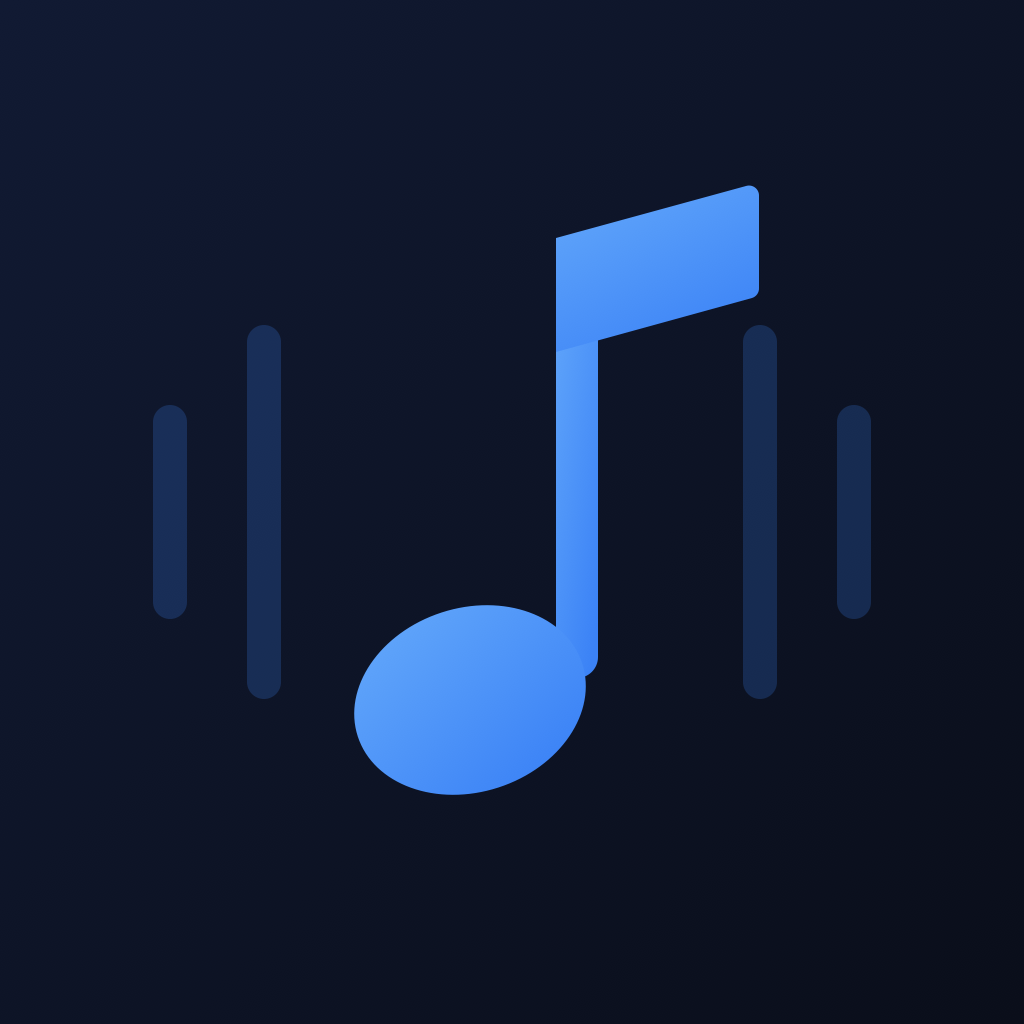
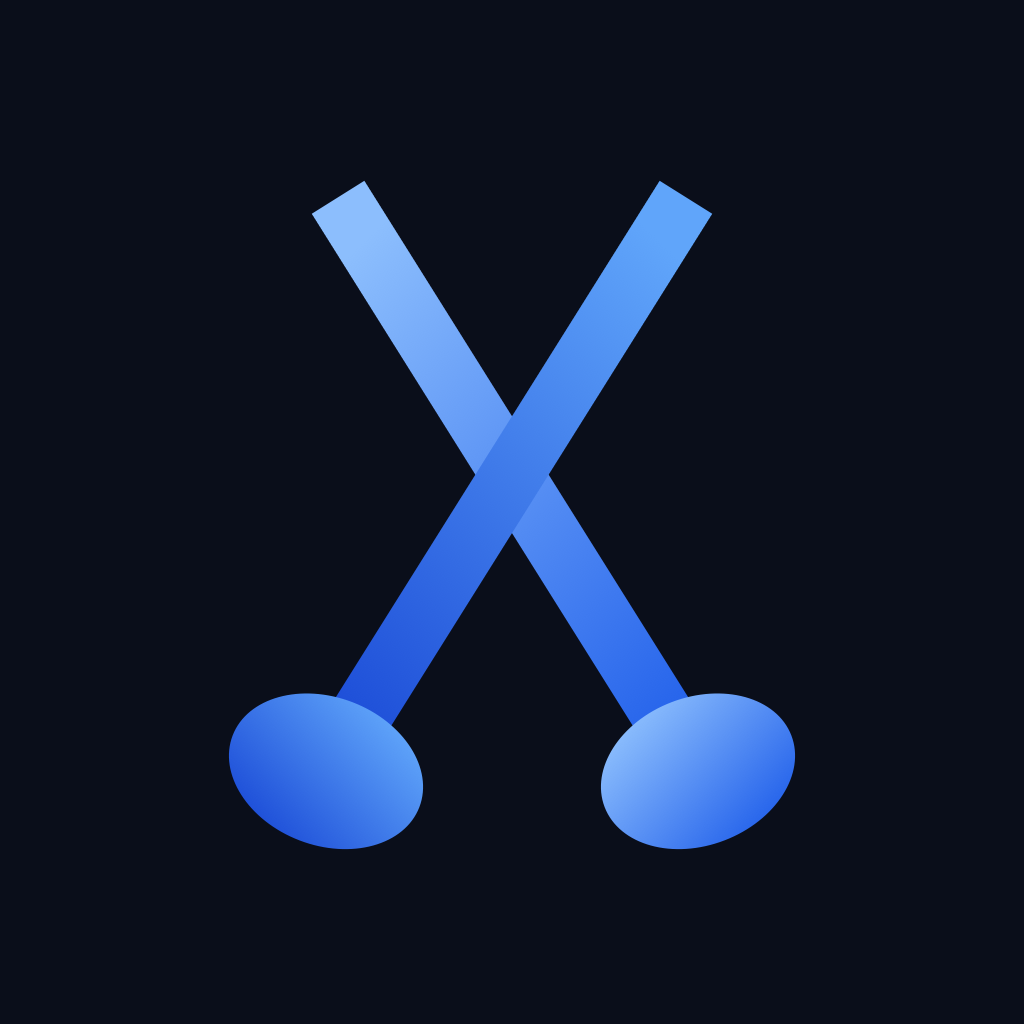
feat: marca do app — X de duas seminimas cruzadas
Substitui o icone anterior, que era um rascunho meu de uma nota musical
solta. A nova marca e o pedido: a letra X construida com notas.

Duas seminimas espelhadas, hastes se cruzando. O X aparece na estrutura,
nao e desenhado por cima dela — quem nao repara na musica ve um X, quem
repara ve duas notas.

**Sem bandeira de colcheia, por teste e nao por gosto.** Foram feitas
tres variantes — bandeira larga, bandeira curta e sem bandeira — e
comparadas a 88px, que e o tamanho em que um icone e realmente visto. Nas
duas primeiras a bandeira virava um risco solto que competia com o
cruzamento e enfraquecia a leitura do X. Sem ela, a diagonal sobrevive
inteira.

A geometria e calculada, nao estimada: as pontas das hastes sao cortadas
perpendicularmente ao proprio eixo (nao na horizontal), o espelhamento e
exato em x=512 e a marca inteira sobe 9,3px para o centro optico, ja que
a massa desce ate a base das cabecas. As cabecas ficam inclinadas a 21
graus, que e a inclinacao da notacao manuscrita — uma elipse deitada, nao
um circulo preso a uma linha.

Cores do proprio app: gradiente de #8CBEFD a #2563EB, na diagonal da
leitura de uma partitura.

Em `store/logo/`: a marca, a versao com fundo para o icone, uma
monocromatica e a filosofia de design que guiou as escolhas.

A skill `canvas-design` foi instalada a pedido e entra no `.gitignore` —
sao 7MB de fontes que nao pertencem ao repositorio do app; o comando de
reinstalacao fica anotado la.
[…]

diff --git a/store/logo/FILOSOFIA.md b/store/logo/FILOSOFIA.md
@@ -1,0 +1,58 @@
+# Notação Cruzada
+
+> Filosofia de design para a marca do Connext Music.
+
+## O movimento
+
+**Notação Cruzada** parte de uma observação simples: a escrita musical é o sistema de símbolos mais
+preciso que a humanidade inventou para registrar algo que não se pode ver. Uma haste, uma cabeça
+oval inclinada, uma bandeira — três traços que dizem exatamente qual som, por quanto tempo, em que
+altura. Nenhum deles ilustra o som; todos o *descrevem*. Este movimento trata esses traços como
+material de construção, não como enfeite.
+
+A disciplina central é a **economia do traço**. Cada linha tem que carregar duas leituras ao mesmo
+tempo, e nenhuma das duas pode ser um sacrifício da outra. Um traço que só funciona quando explicado
+falhou. A forma deve ser reconhecida antes de ser compreendida — primeiro o olho a identifica, só
+depois a mente percebe do que ela é feita.
+
+## Espaço e forma
+
+O movimento rejeita a moldura. Nada de círculos contendo símbolos, nada de escudos, nada de
+recipientes. A forma se sustenta pela própria estrutura ou não se sustenta. O espaço negativo é
+tratado com o mesmo rigor do positivo: o vazio entre duas hastes que se cruzam é uma forma tanto
+quanto as hastes, e precisa ser tão intencional quanto elas.
+
+A inclinação vem da notação real. A cabeça de uma nota manuscrita nunca é um círculo perfeito — ela
+é uma elipse deitada, inclinada por volta de vinte graus, porque foi assim que a pena a desenhou por
+séculos. Preservar essa inclinação é o que separa um símbolo musical de um ponto qualquer preso a
+uma linha.
+
+## Cor
+
+A paleta é fechada e não negociável: um azul que avança e um fundo que recua. O azul não é
+decoração, é o único elemento que ocupa a atenção; o fundo quase preto existe para que ele possa
+brilhar sem competir. Um gradiente sutil, do claro ao saturado, sugere movimento na diagonal — a
+mesma direção da leitura de uma partitura, da esquerda para a direita, do grave ao agudo.
+
+Nenhuma terceira cor entra. Nenhuma sombra suaviza. Nenhum brilho especular finge volume. A
+superfície é chapada porque a notação sempre foi chapada: tinta sobre papel, sem pretensão de
+tridimensionalidade.
+
+## Escala
+
+A prova final do movimento é a **redução**. Uma forma que só funciona grande é ilustração, não
+marca. O teste não é como ela se comporta a mil pixels — é o que sobra dela a quarenta. Nessa
+escala, as bandeiras somem, as cabeças viram pontos, e o que precisa permanecer é a estrutura
+diagonal. Se a diagonal sobrevive, a marca sobrevive.
+
+Por isso a construção é feita de fora para dentro: primeiro o esqueleto que aguenta a menor escala,
+depois os detalhes que recompensam quem a vê grande. O detalhe é um prêmio para quem olha de perto,
+nunca a condição para entender.
+
+## Craftsmanship
+
+Nada aqui é gerado por acaso. Cada raio de canto, cada ângulo de inclinação e cada espessura de
+haste são valores escolhidos e verificados na tela — não estimados. As duas metades da forma são
+espelhadas com precisão matemática, porque assimetria acidental é a marca inconfundível de trabalho
+apressado. O cruzamento no centro é o ponto de maior atenção: é ali que a leitura acontece, e é ali
+que qualquer descuido apareceria primeiro.

diff --git a/LOJA.md b/LOJA.md
@@ -181,7 +181,7 @@ pela folha de compartilhamento do iOS.
 
 ### Pronto
 
-- [x] Ícone 1024×1024 (`assets/images/icon.png`, fonte em `assets/brand/icon.svg`)
+- [x] Ícone 1024×1024 (`assets/images/icon.png`, fonte em `store/logo/icone.svg`)
 - [x] Splash screen
 - [x] `app.json` completo: nome de exibição, versão, build number, bundle ID, permissões
 - [x] `eas.json` com os perfis `development`, `preview` e `production`
@@ -202,8 +202,10 @@ pela folha de compartilhamento do iOS.
 - [ ] **Screenshots.** Há capturas de tela em `store/screenshots/`, tiradas do simulador com uma
       biblioteca sintética. Servem de rascunho, **não** para publicar: os nomes são "Faixa 001" e as
       capas são blocos de cor. Refaça com música real antes de enviar.
-- [ ] **Revisar o ícone com olhos de designer.** O atual foi gerado a partir de um SVG feito à mão,
-      é coerente com a paleta, mas não passou por decisão de marca.
+- [ ] **Revisar a marca com olhos de designer.** O X de duas semínimas cruzadas está em
+      `store/logo/`, com a filosofia de design que o guiou em `FILOSOFIA.md`. A geometria é
+      calculada, não estimada, e a forma foi escolhida por teste de redução a 88px — mas nenhuma
+      marca deveria ir para a loja sem passar por um par de olhos treinados.
 - [ ] Rodar o [roteiro de testes em aparelho](TESTES-APARELHO.md) inteiro.
 
 ---
